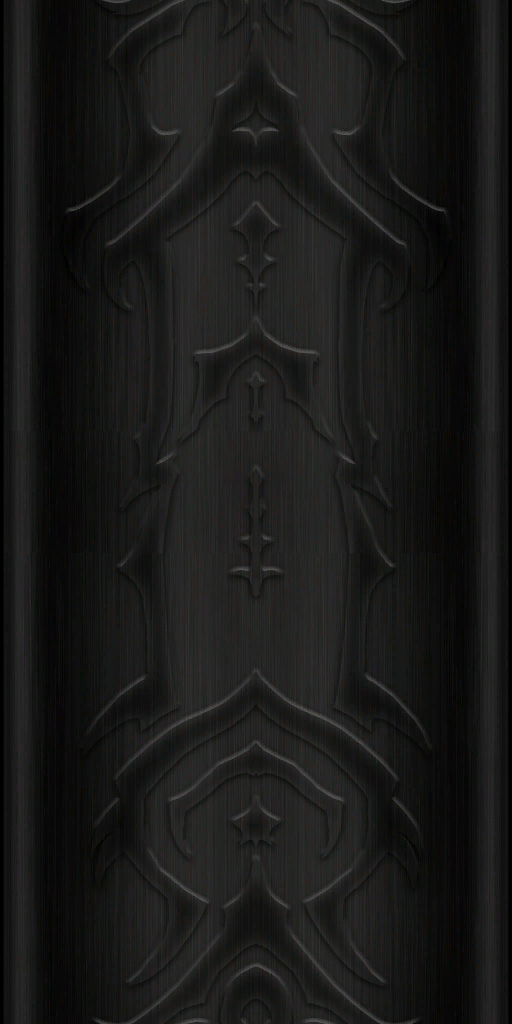
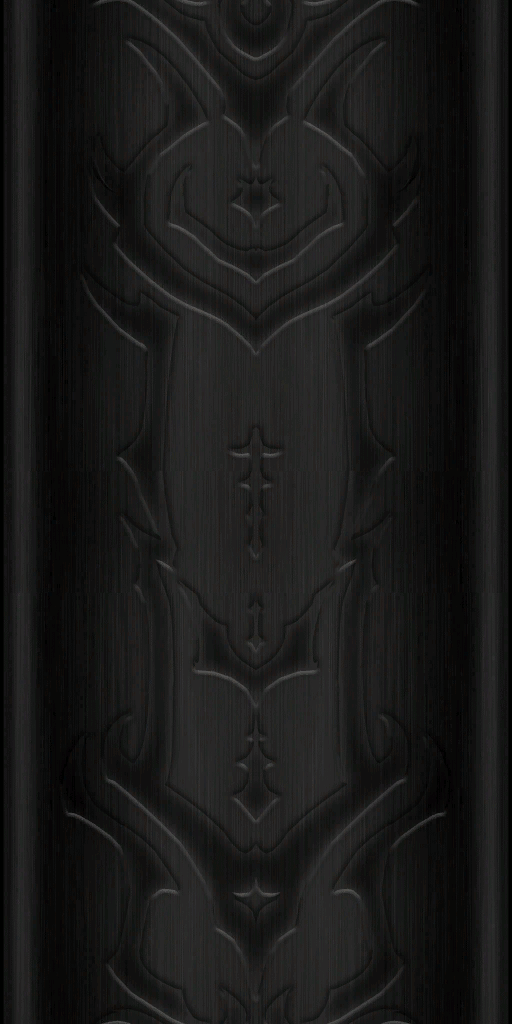
Flip the highway, and make it a little wider

diff --git a/spotify-clonehero-next/lib/preview/highway.ts b/spotify-clonehero-next/lib/preview/highway.ts
@@ -438,7 +438,7 @@ function createHighway(
 ) {
   const mat = new THREE.MeshBasicMaterial({map: highwayTexture});
 
-  const geometry = new THREE.PlaneGeometry(0.95, 2);
+  const geometry = new THREE.PlaneGeometry(1, 2);
   const material = new THREE.MeshBasicMaterial({
     color: 0xffff00,
     side: THREE.DoubleSide,
@@ -456,7 +456,7 @@ function createDrumHighway(
 ) {
   const mat = new THREE.MeshBasicMaterial({map: highwayTexture});
 
-  const geometry = new THREE.PlaneGeometry(0.8, 2);
+  const geometry = new THREE.PlaneGeometry(0.9, 2);
   const material = new THREE.MeshBasicMaterial({
     color: 0xffff00,
     side: THREE.DoubleSide,
